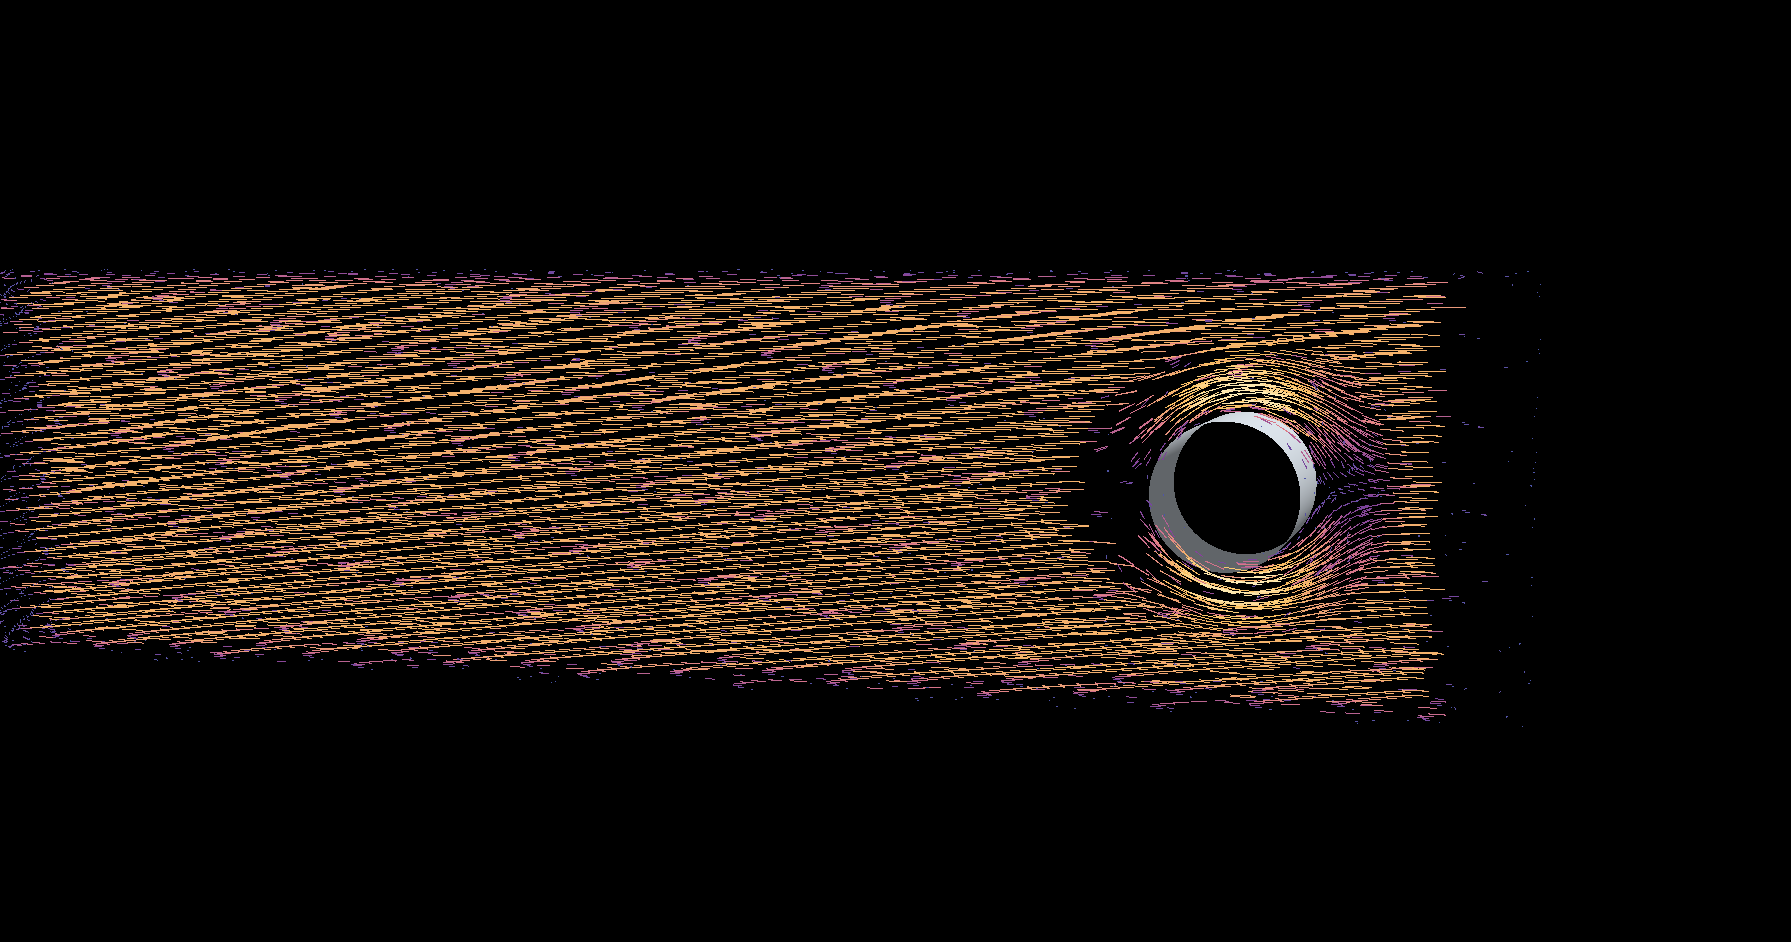
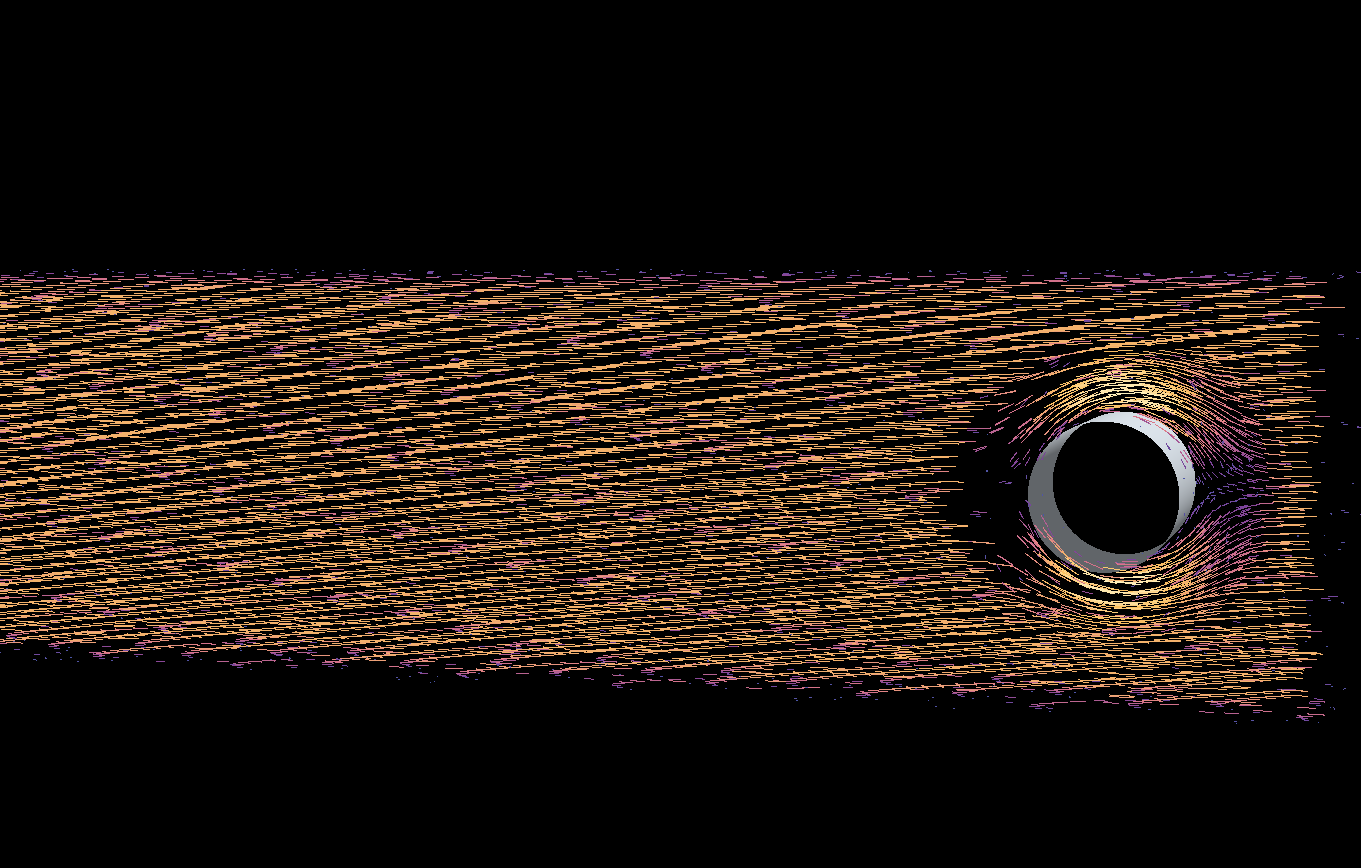
updated readme to include streamline descriptions

Changed region(s): [[0.0, 0.28, 0.9875, 0.8088]]

diff --git a/README.md b/README.md
@@ -8,13 +8,18 @@ The codebase is organized around reusable simulation kernels, boundary logic, an
 ## Demo
 
 <div align="center">
-  <img src="./assets/3d_example.png" alt="3D cylinder wake demo" width="860" />
+  <img src="./assets/3d_example.png" alt="3D cylinder wake demo" width="560" />
   <p><em>Figure 1 — 3D cylinder wake demo (same WGSL-driven solver used for the headless validation case).</em></p>
 </div>
 
 <div align="center">
+  <img src="./assets/3d_example_2.png" alt="3D F35 Streamlines" width="560" />
+  <p><em>Figure 2 —3D F35 STL File demo of streamlines over object.</em></p>
+</div>
+
+<div align="center">
   <img src="./assets/2d_example.png" alt="2D D2Q9 velocity field" width="560" />
-  <p><em>Figure 2 — 2D D2Q9 velocity field shown separately so it is clear this is the 2D case, not the 3D wake.</em></p>
+  <p><em>Figure 3 — 2D D2Q9 velocity field shown separately so it is clear this is the 2D case, not the 3D wake.</em></p>
 </div>
 
 ## Feature list
@@ -24,7 +29,7 @@ The codebase is organized around reusable simulation kernels, boundary logic, an
 - Precision modes: FP32, FP16S, and Auto
 - Boundary types: fluid cells, solid bounce-back, free-slip walls, inlet equilibrium, outlet zero-gradient, and Zou-He inlet/velocity handling
 - Forcing: body-force support through `FORCE_X`, `FORCE_Y`, and `FORCE_Z`, including the cylinder-wake forcing pattern used for the FluidX3D-matched case
-- Rendering modes: 2D velocity and curl views, plus 3D vorticity/Q-criterion style visualization
+- Rendering modes: 2D velocity and curl views, plus 3D vorticity/Q-criterion style visualization and true 3D flow streamlines (ribbon-renderer with flexible spawn domains)
 - Headless benchmarking: automated throughput tests, workgroup sweeps, and CSV export of benchmark results
 - Experimental: FP16S storage, MRT, auto-tuned workgroup selection, and zero/weak forcing drift checks are treated as experimental diagnostics rather than “fully identical” physics guarantees
 
@@ -85,8 +90,9 @@ Because each concern is isolated, you can prototype new features without needing
 
 ## Project layout
 
-- `src/app_no_ui_2d.rs` — 2D Windowed svg-flow app
-- `src/app_no_ui_3d.rs` — 3D windowed cylinder-flow app
+- `src/example_1_2d.rs` — 2D Windowed svg-flow app
+- `src/example_1_3d.rs` — 3D windowed cylinder-flow app
+- `src/example_2_3d.rs` — 3D windowed F-35 streamline flow app
 - `src/test_headless_2d.rs` — 2D benchmark and validation harness
 - `src/test_headless_3d.rs` — 3D benchmark and diagnostics harness
 - `src/sim/` — lattice definitions, buffers, validation logic, and benchmark math
